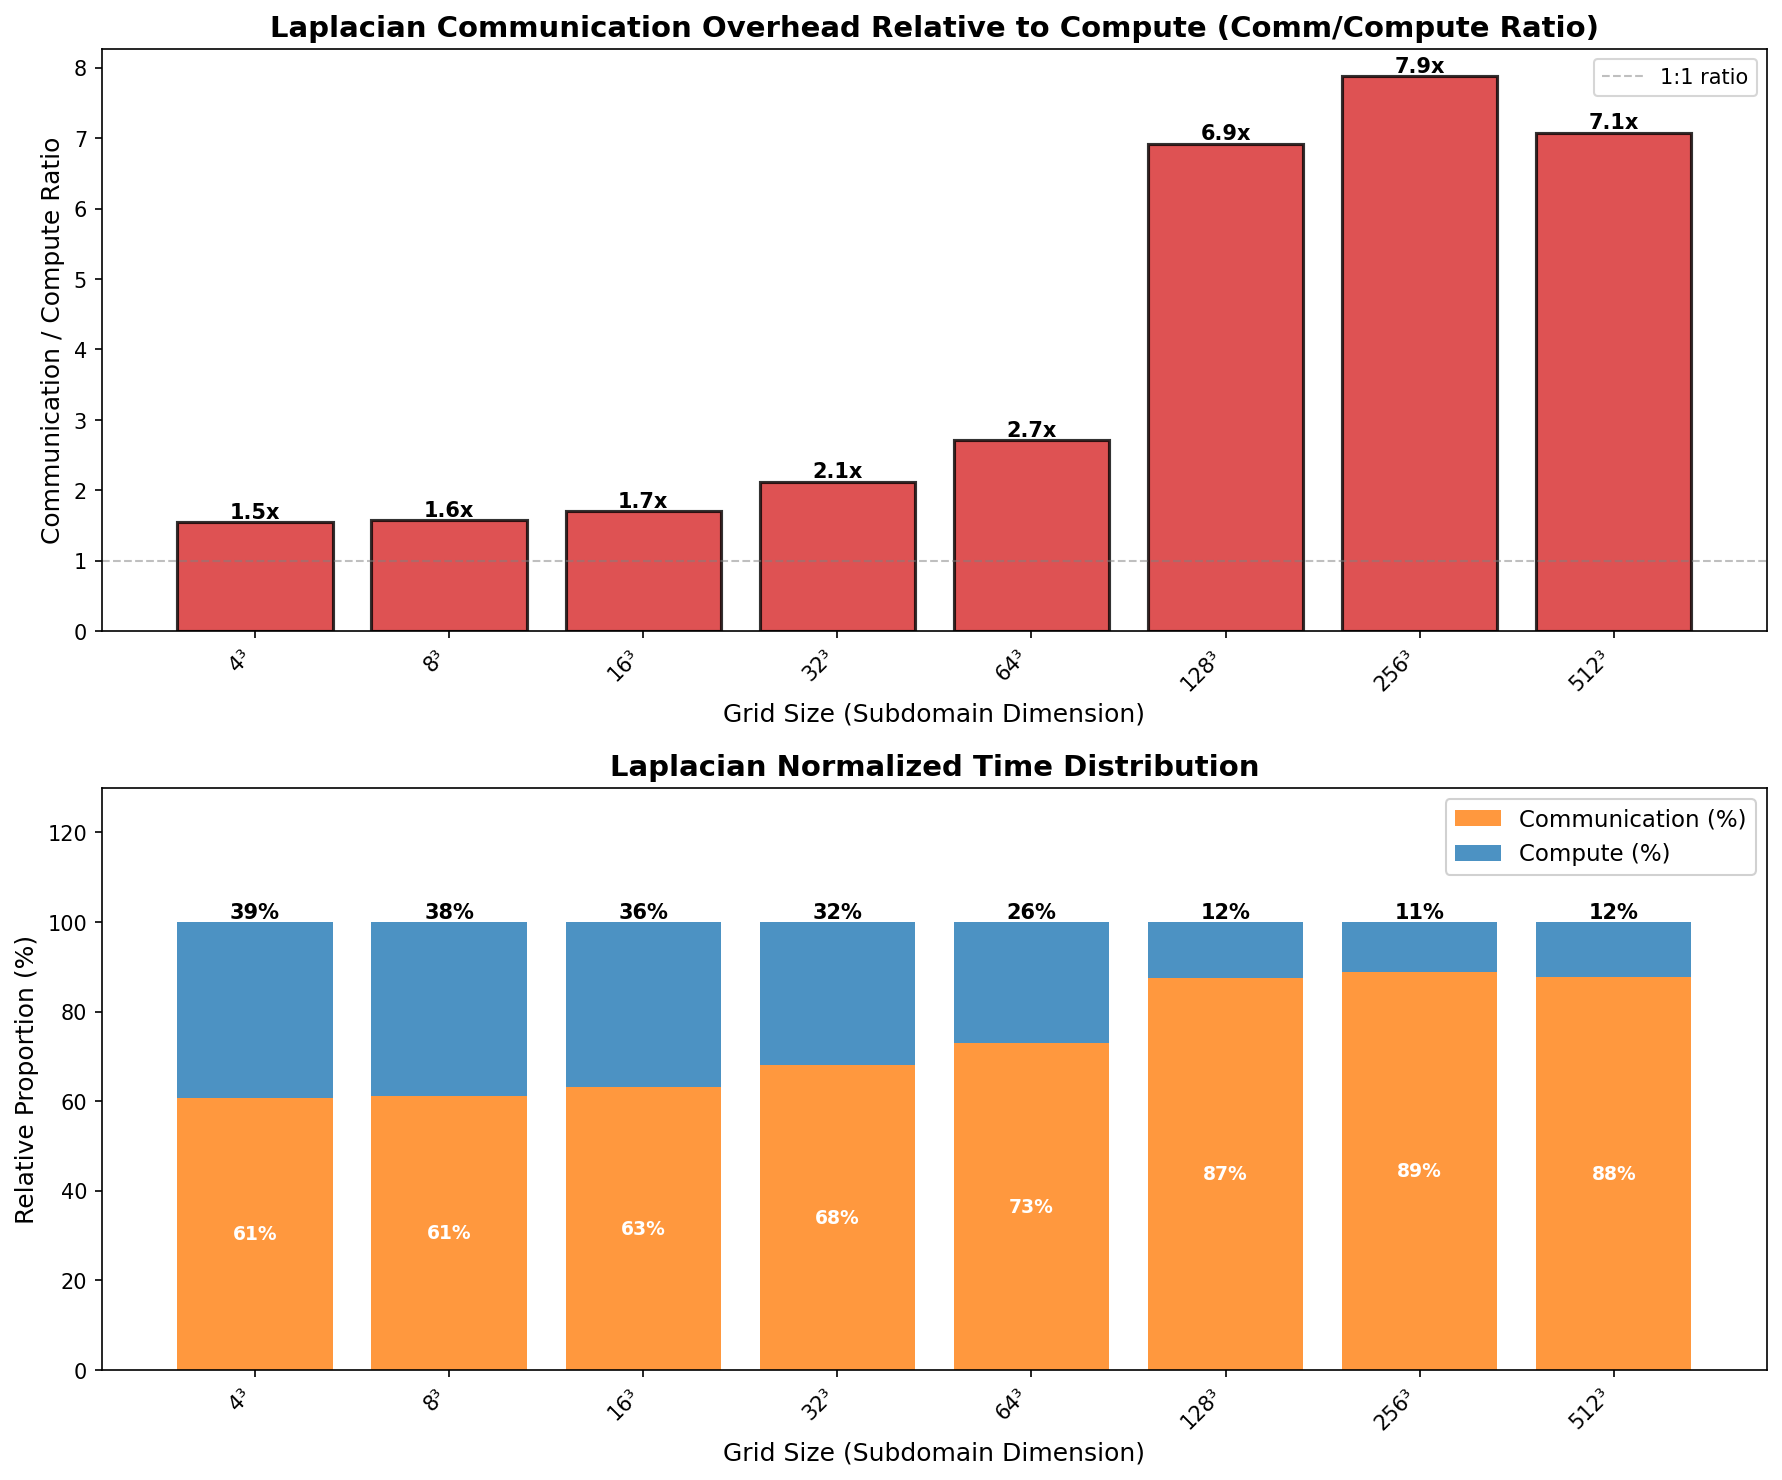
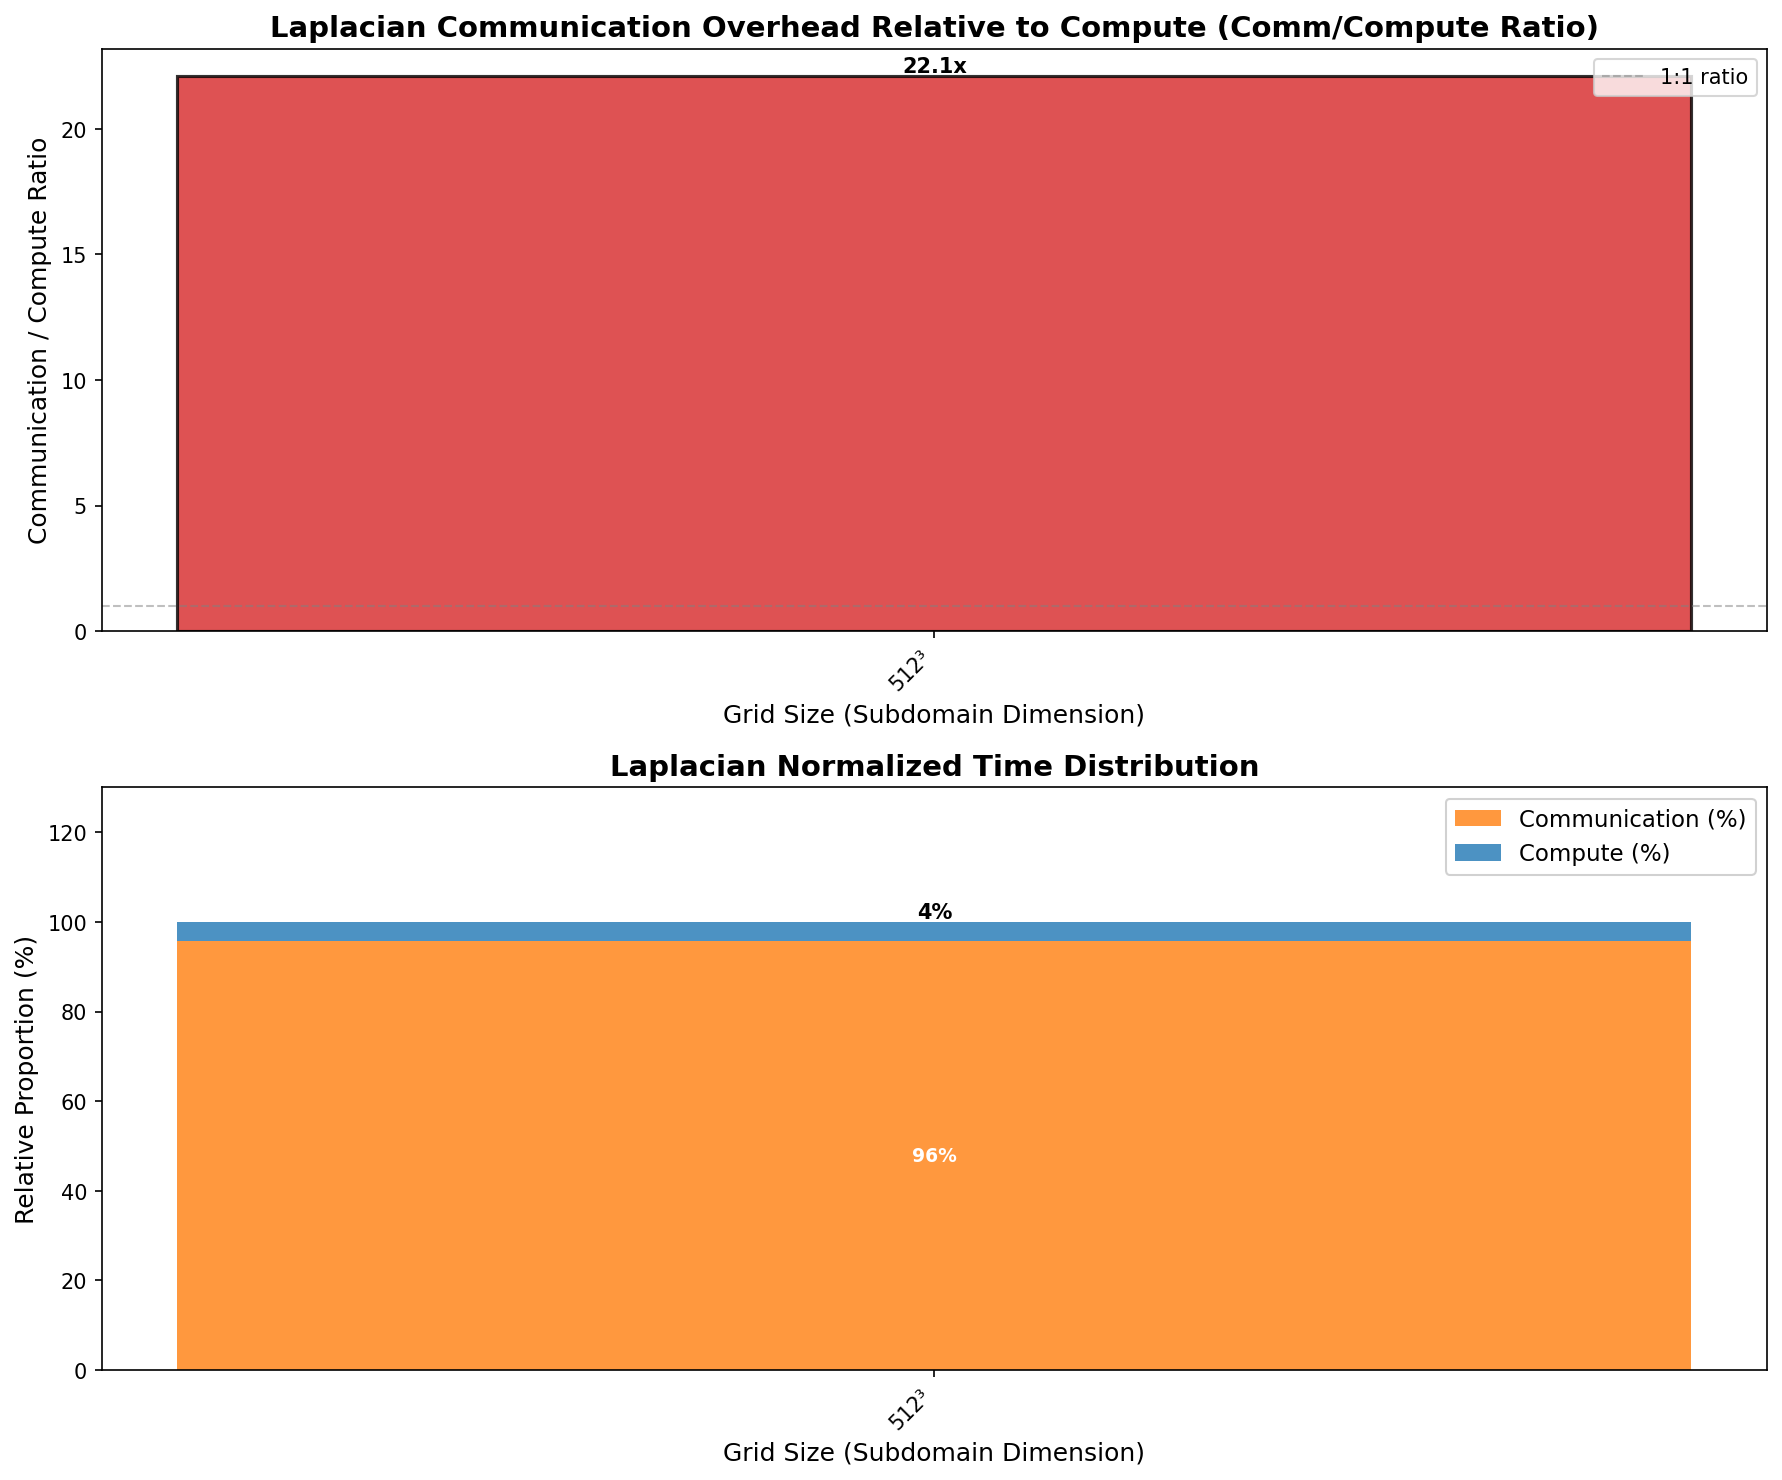
make parallel + fix plots

diff --git a/benchmarks/gmg/csl_gmg/compile_and_run_wse3.py b/benchmarks/gmg/csl_gmg/compile_and_run_wse3.py
@@ -121,42 +121,41 @@ def compile_app(layout_file, Compile_command, out_path):
     
     return artifact_path, compile_duration
 
-# RUN FUNCTION
+# RUN FUNCTION - fire and forget
 def run_on_appliance(artifact_path, out_path, Run_command):
-    print(f"Artifact path: {artifact_path}")
-    with SdkLauncher(artifact_path, simulator=False, disable_version_check=True) as launcher:
-
-        print("Staging files on appliance ----------------------------------------")
-        files_to_stage = [
-            "cmd_parser.py",
-            "run_gmg_vcycle.py",
-            "util.py", 
-            "python_gmg/gmgoscar.py",
-        ]
-        for file_to_stage in files_to_stage:
-            launcher.stage(file_to_stage)
-        print("Running host code on appliance ----------------------------------------")
-        run_start = time.time()
-        response = launcher.run(Run_command)
-        run_end = time.time()
-        print(response)
-        print("Copying data from appliance ----------------------------------------")
-        with open(f"./{out_path}/response.txt", "a") as f:
-            f.write(f"\n{'='*70}\n")
-            f.write("Run output:\n")
-            f.write(f"{'='*70}\n")
-            f.write(response)
-        print("Done ----------------------------------------")
-        # Time
-        run_duration = run_end - run_start
-
-    return run_duration
+    """Submit job to queue - fires in background thread and returns immediately"""
+    import threading
+    
+    def _run():
+        with SdkLauncher(artifact_path, simulator=False, disable_version_check=True) as launcher:
+            files_to_stage = [
+                "cmd_parser.py",
+                "run_gmg_vcycle.py",
+                "util.py", 
+                "python_gmg/gmgoscar.py",
+            ]
+            for file_to_stage in files_to_stage:
+                launcher.stage(file_to_stage)
+            run_start = time.time()
+            response = launcher.run(Run_command)
+            run_end = time.time()
+            run_duration = run_end - run_start
+            with open(f"./{out_path}/response.txt", "a") as f:
+                f.write(f"\n{'='*70}\n")
+                f.write("Run output:\n")
+                f.write(f"{'='*70}\n")
+                f.write(response)
+                f.write(f"\nRun time (s): {run_duration:.6f}\n")
+    
+    # Fire job in background - don't wait
+    threading.Thread(target=_run, daemon=False).start()
 
 def process_on_device(size, levels, channels, max_ite, abs_tolerance, pre_iter, post_iter, bottom_iter):
     """
-    Process a single problem: compile (if needed) and run.
-    Returns compile_duration and run_duration.
+    Fire compile + run job for a single problem.
+    Submits job and returns immediately - queue handles execution.
     """
+    import threading
     
     out_path = f"out_dir_S{size}x_L{levels}_M{max_ite}_P{pre_iter}_P{post_iter}_B{bottom_iter}"
     os.makedirs(out_path, exist_ok=True)
@@ -169,7 +168,8 @@ def process_on_device(size, levels, channels, max_ite, abs_tolerance, pre_iter, 
         64: 64,
         128: 128, # Let's keep a sweet spot of totalsize/4, so 1/4 th size is block size.
         256: 256,
-        512: 256,  # Why? Can't fit problem, need to reduce allocation
+        512: 256, # seems heuristically better when tested with different block sizes
+        # 512: 384,  # Why? Can't fit problem, need to reduce allocation
     }
     BSIZE  = bsizemap[size]
 
@@ -198,16 +198,17 @@ def process_on_device(size, levels, channels, max_ite, abs_tolerance, pre_iter, 
     )
 
     write_run_info(out_path, size, levels, channels, max_ite, pre_iter, post_iter, bottom_iter, Compile_command, Run_command)
-    artifact_path, compile_duration = compile_app(layout_file, Compile_command, out_path)
-    run_duration = run_on_appliance(artifact_path, out_path, Run_command)
-    # Print and save timing results for this problem
-    print(f"\nCOMPILE TIME: {compile_duration:.3f} seconds")
-    print(f"RUN TIME: {run_duration:.3f} seconds")
-    with open(f"./{out_path}/response.txt", "a") as response_file:
-        response_file.write(f"\nCompile time (s): {compile_duration:.6f}\n")
-        response_file.write(f"Run time (s): {run_duration:.6f}\n")
     
-    return compile_duration, run_duration
+    # Fire compile + run job in background - returns immediately
+    def _compile_and_run():
+        artifact_path, compile_duration = compile_app(layout_file, Compile_command, out_path)
+        with open(f"./{out_path}/response.txt", "a") as response_file:
+            response_file.write(f"\nCompile time (s): {compile_duration:.6f}\n")
+        run_on_appliance(artifact_path, out_path, Run_command)
+    
+    print(f"Firing compile+run job for {size}x{size}x{size}...")
+    threading.Thread(target=_compile_and_run, daemon=False).start()
+    print(f"Job submitted for {size}x{size}x{size} - moving to next problem")
 
 
 import argparse
@@ -243,13 +244,13 @@ def main():
     # Format: (size, levels, max_ite, abs_tolerance, pre_iter, post_iter, bottom_iter)
     # NOTE: MANUALLY DELETE FOLDER IF THERE IS SOME CHANGES IN THE SOURCE CODE AS IT WILL SKIP COMPILATION DUE TO CACHING.
     problems = [
-        #  (4, 2, 100, 1e-5, 6, 6, 100),   # Tiny problem
-        #  (8, 3, 100, 1e-5, 6, 6, 100),   # Tiny problem
-        #  (16, 4, 100, 1e-5, 6, 6, 100),   # Small problem
-        #  (32, 5, 100, 1e-5, 6, 6, 100),   # Small problem
-        #  (64, 6, 100, 1e-5, 6, 6, 100),   # Medium problem
-        #  (128, 7, 100, 1e-5, 6, 6, 100),   # Large problem
-        #  (256, 8, 100, 1e-5, 6, 6, 100),   # Very large
+         (4, 2, 100, 1e-5, 6, 6, 100),   # Tiny problem
+         (8, 3, 100, 1e-5, 6, 6, 100),   # Tiny problem
+         (16, 4, 100, 1e-5, 6, 6, 100),   # Small problem
+         (32, 5, 100, 1e-5, 6, 6, 100),   # Small problem
+         (64, 6, 100, 1e-5, 6, 6, 100),   # Medium problem
+         (128, 7, 100, 1e-5, 6, 6, 100),   # Large problem
+         (256, 8, 100, 1e-5, 6, 6, 100),   # Very large
          (512, 9, 100, 1e-5, 6, 6, 100),   # Very large
 
 

diff --git a/benchmarks/gmg/csl_gmg/plots/plot_gmg_performance.py b/benchmarks/gmg/csl_gmg/plots/plot_gmg_performance.py
@@ -182,15 +182,17 @@ def parse_spmv_totals(text: str) -> List[Dict]:
 def parse_vcycle_times(text: str) -> List[Dict]:
     """
     Parse V-cycle time from output file.
-    Extracts max of the two V-cycle time values.
+    Extracts the "Total V-cycle time (Kernel Launch + V-cycle time)" value.
     Returns list of dictionaries with grid_size and vcycle_time.
     """
     results = []
     
-    # Pattern to find V-cycle time section
+    # Pattern to find V-cycle time section - matches actual log format:
+    # "Total Upper bound V-cycle time (sum of operations):   1071.178 us (    937281 cycles)"
+    # "Total V-cycle time (Kernel Launch + V-cycle time):    899.928 us (    787437 cycles)"
     vcycle_pattern = re.compile(
-        r'Total V-cycle time \(sum of operations\):\s*([\d.]+)\s*us.*?\n'
-        r'Total V-cycle time \(\(No kernel launch\)V-cycle time\):\s*([\d.]+)\s*us',
+        r'Total Upper bound V-cycle time \(sum of operations\):\s*([\d.]+)\s*us.*?\n'
+        r'Total V-cycle time \(Kernel Launch \+ V-cycle time\):\s*([\d.]+)\s*us',
         re.DOTALL
     )
     
@@ -200,16 +202,18 @@ def parse_vcycle_times(text: str) -> List[Dict]:
     # Find all V-cycle time sections
     for match in vcycle_pattern.finditer(text):
         end = match.end()
-        # Look ahead to find the corresponding grid size (it appears after V-cycle time)
+        # Look backward and forward to find the corresponding grid size
+        # Grid size appears in Configuration Summary which comes after V-cycle time
         next_text = text[end:min(len(text), end+2000)]
         grid_match = grid_pattern.search(next_text)
         if grid_match:
             width, height, zdim = map(int, grid_match.groups())
             grid_size = f"{width}x{height}x{zdim}"
             
-            time1 = float(match.group(1))
-            time2 = float(match.group(2))
-            vcycle_time = max(time1, time2)  # Take maximum as instructed
+            time1 = float(match.group(1))  # Upper bound (sum of operations)
+            time2 = float(match.group(2))  # Actual V-cycle time (Kernel Launch + V-cycle)
+            # Use the actual V-cycle time (time2) which is the "Kernel Launch + V-cycle time"
+            vcycle_time = time2
             
             results.append({
                 'grid_size': grid_size,
